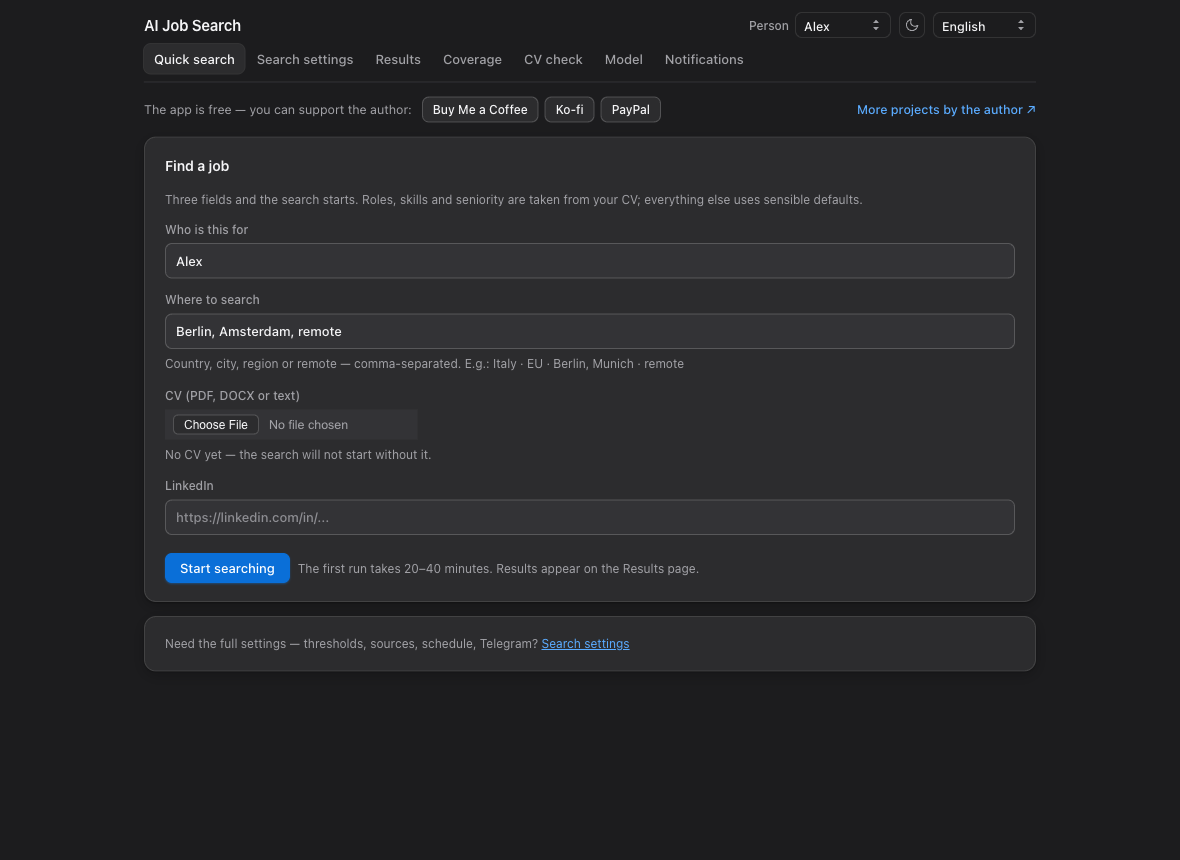
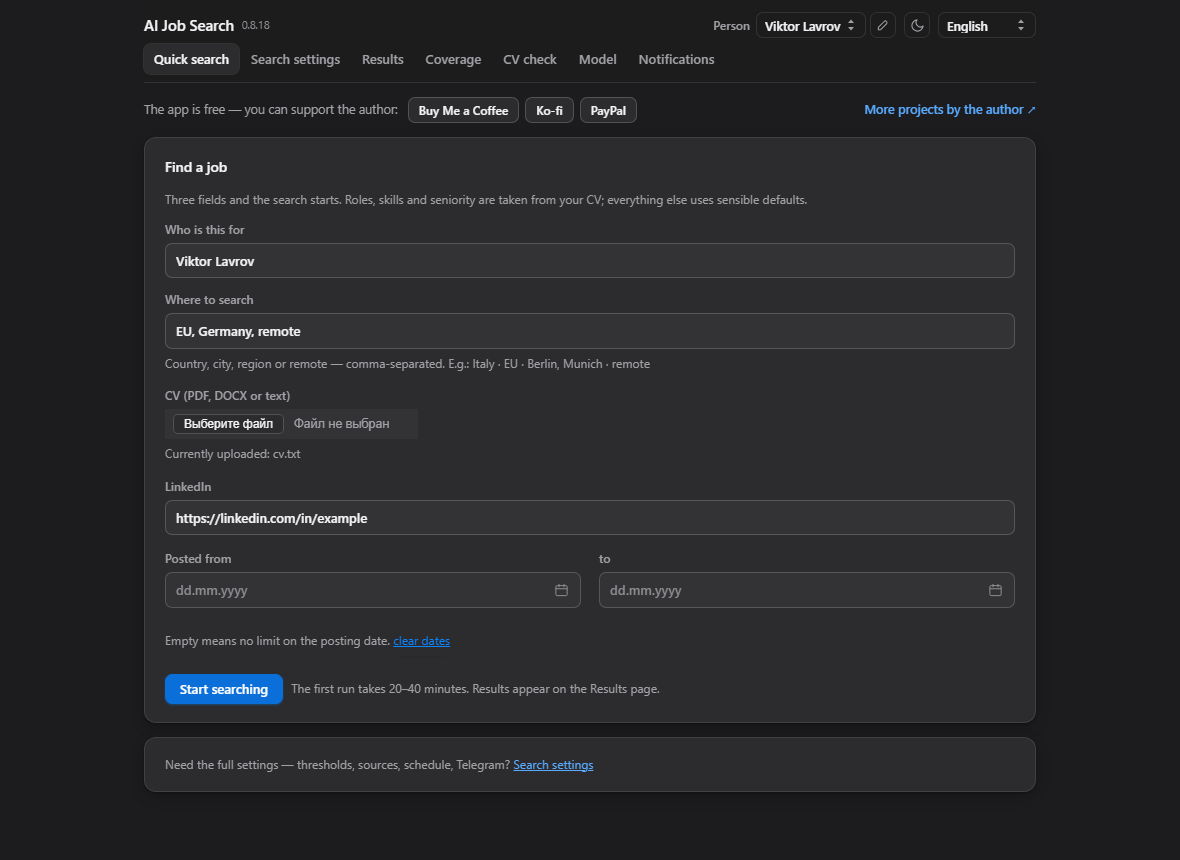
Retake the AI Job Search screenshots, and count the providers again
The shots on the page were several versions old. Retaken from the current build
against a made-up profile, as the caption already promised.

Codex CLI is a fourth way to power the search, so "three" was wrong in three
places: the step that lists them, the alt text and the caption. The advice shot
is taller now — it reaches the edits themselves — so its width and height
attributes were updated to match, or the page would jump as it loads.

The onboarding is also two steps in the app now, and the page says so: choosing
the program and choosing the model are not the same act, and a tester who read
them as one could not tell what he was being asked to download.

diff --git a/products/ai-job-search/index.html b/products/ai-job-search/index.html
@@ -171,9 +171,9 @@
 
       <figure>
         <a class="shot" href="assets/advice-light.png" target="_blank" rel="noopener" title="Open full size">
-          <img class="shot-light" src="assets/advice-light.png" width="1180" height="860" loading="lazy" decoding="async"
+          <img class="shot-light" src="assets/advice-light.png" width="1180" height="1240" loading="lazy" decoding="async"
                alt="One job card opened up: a salary range and three facts about the company with links, then a list of edits — three lines to change in the CV, two for the LinkedIn profile, and one sentence on what to lead with in the application. At the bottom, a button that generates a CV tailored to this job." />
-          <img class="shot-dark" src="assets/advice-dark.png" width="1180" height="860" loading="lazy" decoding="async"
+          <img class="shot-dark" src="assets/advice-dark.png" width="1180" height="1240" loading="lazy" decoding="async"
                alt="One job card opened up, showing salary, company facts and the list of CV and LinkedIn edits, in the app's dark theme." />
         </a>
         <figcaption>For every job that clears the bar: what to change, and a CV written for that role in one click.</figcaption>
@@ -188,8 +188,10 @@
           <h3>Choose what does the thinking</h3>
           <p>
             The app has no model of its own. On first launch it asks which one to use:
-            Claude Code, Cursor CLI, or a local model through Ollama. It says which are
-            installed and opens the right download page for the one you pick.
+            Claude Code, Cursor CLI, Codex CLI, or a local model through Ollama. It says
+            which are installed and opens the right download page for the one you pick.
+            Choosing the program and choosing the model are two separate steps, so that
+            installing a command line is never mistaken for downloading a model.
           </p>
           </li>
           <li>
@@ -231,9 +233,9 @@
       <ul class="feature-grid">
         <li>
           <span class="feature-icon" aria-hidden="true">☁</span>
-          <h3>Claude Code or Cursor</h3>
+          <h3>Claude Code, Cursor or Codex</h3>
           <p>
-            Uses the subscription you already have. Claude Code can also search the web,
+            Uses a subscription you already have. Claude Code can also search the web,
             which is how the app finds companies nobody told it about.
           </p>
         </li>
@@ -252,11 +254,11 @@
       <figure>
         <a class="shot" href="assets/model-light.png" target="_blank" rel="noopener" title="Open full size">
           <img class="shot-light" src="assets/model-light.png" width="1180" height="860" loading="lazy" decoding="async"
-               alt="The Model page: three cards for Claude Code, Cursor and a local model through Ollama, each marked installed or not and whether it can search the web, with Download and Select buttons. Below them, a line stating the machine's processor and how much memory a model may use." />
+               alt="The Model page: four cards for Claude Code, Cursor, Codex and a local model through Ollama, each marked installed or not and whether it can search the web, with Download and Select buttons. Below them, a line stating the machine's processor and how much memory a model may use." />
           <img class="shot-dark" src="assets/model-dark.png" width="1180" height="860" loading="lazy" decoding="async"
-               alt="The Model page with the three provider cards and the device's memory, in the app's dark theme." />
+               alt="The Model page with the four provider cards and the device's memory, in the app's dark theme." />
         </a>
-        <figcaption>The app says which of the three it can already see, and how much memory your machine has to spare.</figcaption>
+        <figcaption>The app says which of the four it can already see, and how much memory your machine has to spare.</figcaption>
       </figure>
     </section>
 
